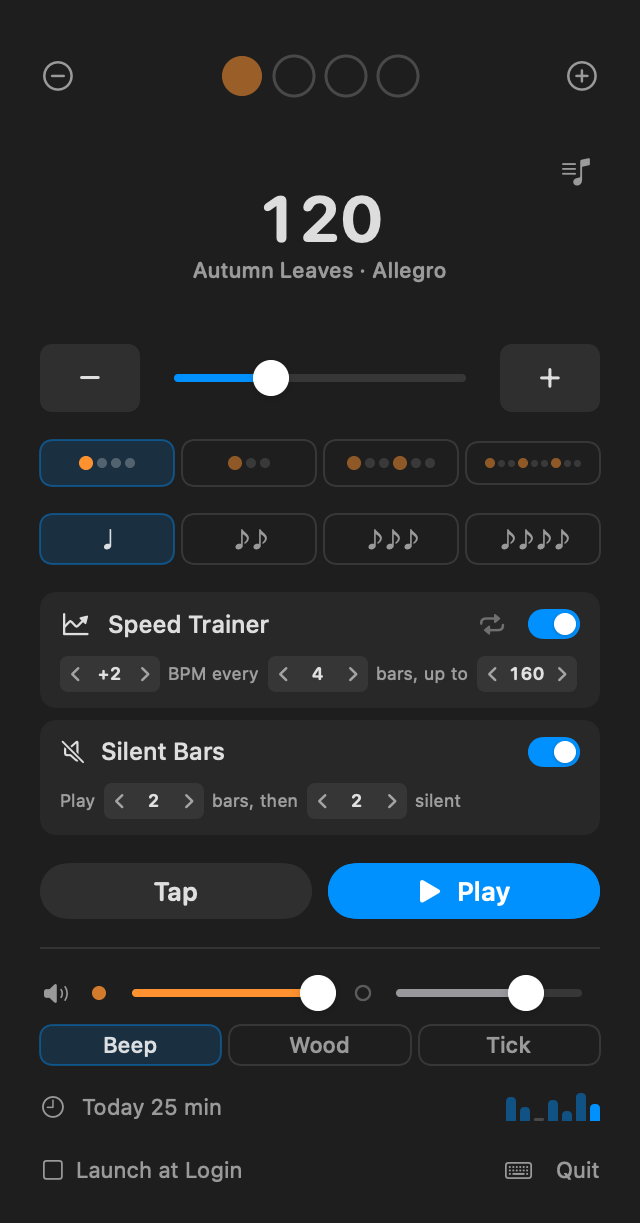
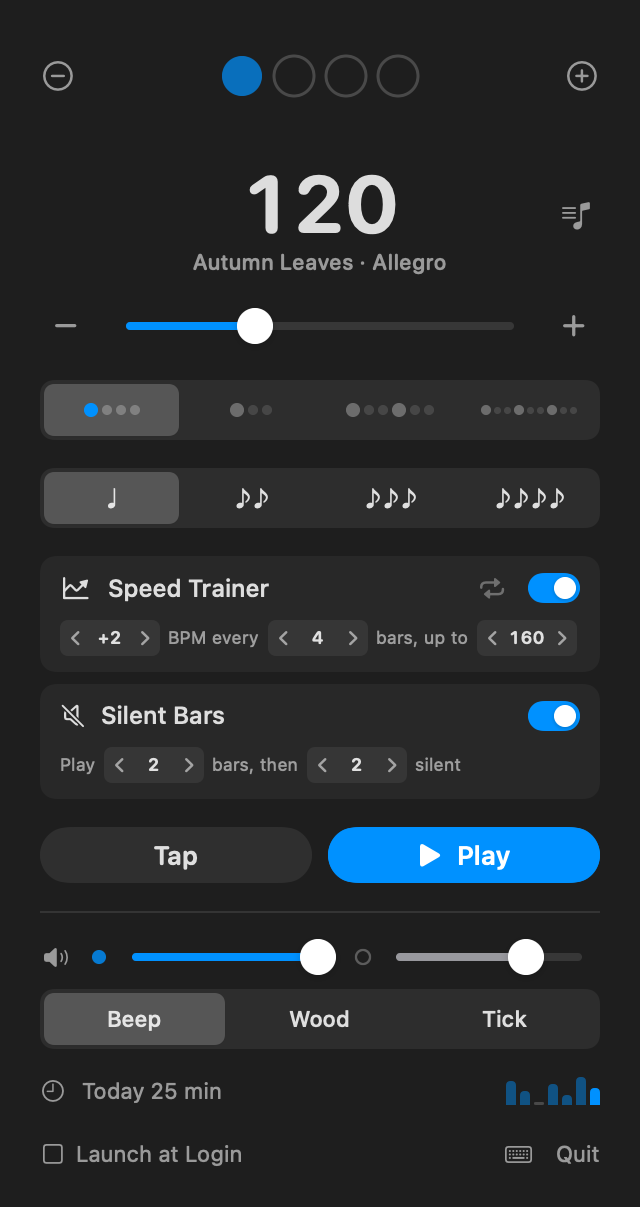
docs: refresh the screenshots for the new look

diff --git a/docs/ja/index.html b/docs/ja/index.html
@@ -61,7 +61,7 @@
         <div class="screenshot-wrapper">
           <picture>
             <source srcset="screenshot-dark.png" media="(prefers-color-scheme: dark)">
-            <img src="screenshot.png" alt="Pulstick の画面。拍の丸、120 BPM（Allegro）、拍子と細分化のボタン、スピードトレーナーとサイレント小節の設定、タップと再生のボタン、今日の練習時間" class="screenshot" width="320" height="612" />
+            <img src="screenshot.png" alt="Pulstick の画面。拍の丸、120 BPM（Allegro）、拍子と細分化のボタン、スピードトレーナーとサイレント小節の設定、タップと再生のボタン、今日の練習時間" class="screenshot" width="320" height="604" />
           </picture>
         </div>
       </div>

diff --git a/docs/index.html b/docs/index.html
@@ -61,7 +61,7 @@
         <div class="screenshot-wrapper">
           <picture>
             <source srcset="screenshot-dark.png" media="(prefers-color-scheme: dark)">
-            <img src="screenshot.png" alt="Pulstick popover: beat dots, 120 BPM marked Allegro, time signature and subdivision buttons, speed trainer and silent bars settings, Tap and Play buttons" class="screenshot" width="320" height="612" />
+            <img src="screenshot.png" alt="Pulstick popover: beat dots, 120 BPM marked Allegro, time signature and subdivision buttons, speed trainer and silent bars settings, Tap and Play buttons" class="screenshot" width="320" height="604" />
           </picture>
         </div>
       </div>
